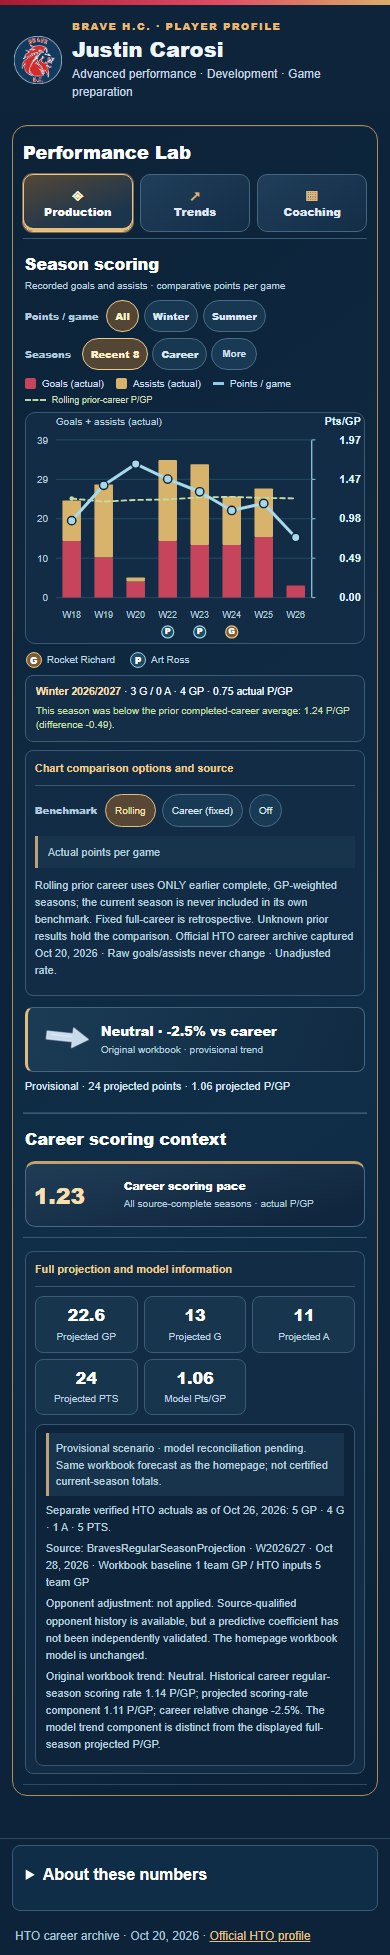
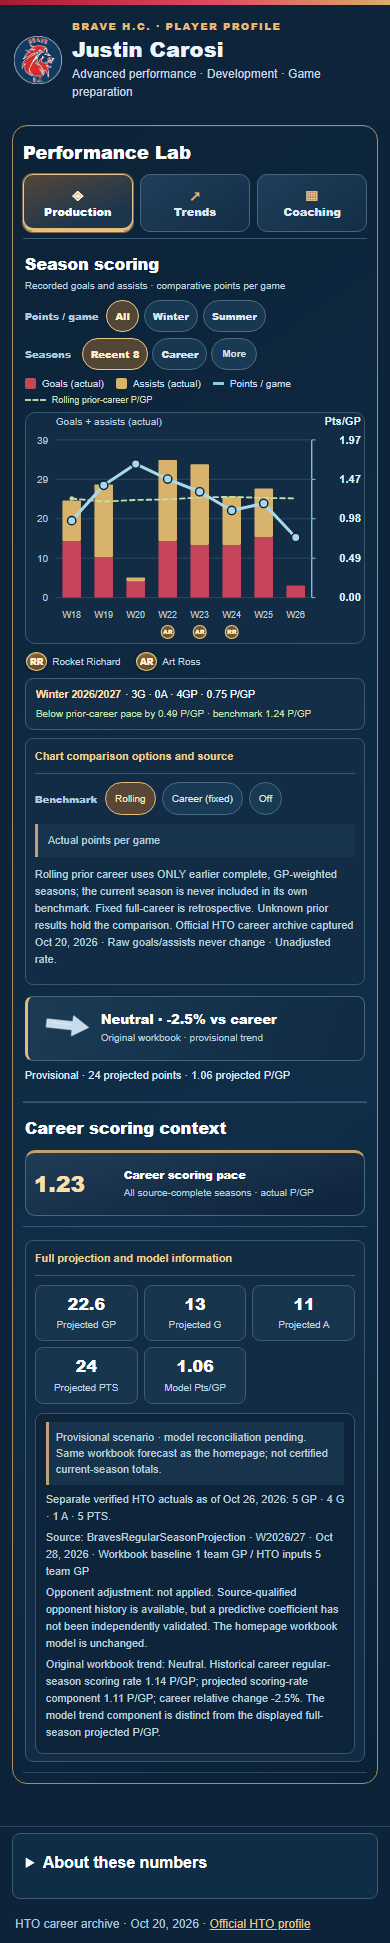
Polish gold RR AR season medals and Neutral Rookie Year Bio presentation

diff --git a/widgets/player-bio-premium.js b/widgets/player-bio-premium.js
@@ -156,19 +156,17 @@ function titleMarks(season){
 function renderAwardKey(rows){
   const host=$('bioAwardKey');
   host.replaceChildren();
-  const types=rows.map(r=>titleMarks(r.Season)).filter(items=>items.length);
-  const includes={goalTitle:types.some(x=>x.length===1&&x[0].type==='goalTitle'),
-    pointsTitle:types.some(x=>x.length===1&&x[0].type==='pointsTitle'),
-    doubleTitle:types.some(x=>x.length===2)};
-  host.hidden=!Object.values(includes).some(Boolean);
-  if(host.hidden)return;
-  for(const [type,text] of [['goalTitle','Rocket Richard'],['pointsTitle','Art Ross'],['doubleTitle','Both titles']]){
-    if(!includes[type])continue;
-    const label=build('span',undefined,'bio-award-key-item');
-    const symbol=type==='goalTitle'?'G':type==='pointsTitle'?'P':'★';
-    label.append(build('span',symbol,type==='goalTitle'?'bio-award-g':type==='pointsTitle'?'bio-award-p':'bio-award-both'),
-      build('span',text));
-    host.append(label);
+  const found=new Set(rows.flatMap(row=>titleMarks(row.Season).map(item=>item.type)));
+  host.hidden=found.size===0;
+  for(const [type,abbreviation,title] of [
+     ['goalTitle','RR','Rocket Richard'],
+     ['pointsTitle','AR','Art Ross']
+  ]){
+    if(!found.has(type))continue;
+    const legend=build('span',undefined,'bio-award-key-item');
+    legend.append(build('span',abbreviation,'bio-award-gold'),
+      build('span',title));
+    host.append(legend);
   }
 }
 function describeSeason(row,rate,reference){
@@ -177,31 +175,29 @@ function describeSeason(row,rate,reference){
   const awards=titleMarks(row.Season);
   const summary=build('div',undefined,'bio-season-summary');
   summary.append(build('strong',row.Season||'Historical season'));
-  const facts=build('span',
-    ' · '+(num(row.G)?fmt(row.G):'—')+' G / '+(num(row.A)?fmt(row.A):'—')+
-    ' A · '+(num(row.GP)?fmt(row.GP):'—')+' GP'+
-    (num(rate)?' · '+rate.toFixed(2)+' '+(state.rate==='actual'?'actual':state.rate+'-eq')+' P/GP':' · rate unavailable'));
-  summary.append(facts);host.append(summary);
+  summary.append(build('span',' · '+(num(row.G)?fmt(row.G):'—')+'G · '+
+      (num(row.A)?fmt(row.A):'—')+'A · '+(num(row.GP)?fmt(row.GP):'—')+
+      'GP · '+(num(rate)?rate.toFixed(2)+' P/GP':'P/GP unavailable')));
+  host.append(summary);
   if(num(reference)&&num(rate)){
-    const difference=rate-reference;
-    const assessment=Math.abs(difference)<1e-9?'matched':
-      difference>0?'above':'below';
-    const comparison=state.baseline==='fixed'?'full-career retrospective average':
-      'prior completed-career average';
-    host.append(build('span','This season was '+assessment+' the '+comparison+
-      ': '+reference.toFixed(2)+' P/GP (difference '+(difference>0?'+':'')+
-      difference.toFixed(2)+').','bio-chart-benchmark-detail'));
+    const diff=rate-reference;
+    const comparable=state.baseline==='fixed'?'full-career pace':'prior-career pace';
+    const verb=Math.abs(diff)<.005?'At':diff>0?'Above':'Below';
+    const result=Math.abs(diff)<.005?'':(' by '+Math.abs(diff).toFixed(2)+' P/GP');
+    host.append(build('span',verb+' '+comparable+result+
+      ' · benchmark '+reference.toFixed(2)+' P/GP','bio-chart-benchmark-detail'));
   }
   if(awards.length){
     const badges=build('div',undefined,'bio-season-awards');
-    for(const mark of awards){
-      const badge=build('span',undefined,'bio-season-award '+(mark.type==='goalTitle'?'goal':'points'));
-      badge.append(build('span',mark.type==='goalTitle'?'G':'P','bio-award-letter'),build('span',mark.label));
+    for(const award of awards){
+      const badge=build('span',undefined,'bio-season-award bio-season-award-gold');
+      badge.append(build('span',award.type==='goalTitle'?'RR':'AR','bio-award-letter'),
+        build('span',award.label));
       badges.append(badge);
     }
     host.append(badges);
     host.append(build('span',
-      'Award titles are historical HTO honors; chart totals can include playoffs or a different statistical scope.',
+      'Award titles are published HTO honors; chart totals may include a different game-type scope.',
       'bio-award-caveat'));
   }
 }
@@ -293,20 +289,20 @@ function renderChart(){
       x:xc,y:baseline+22,fill:'#b5c9da','font-size':compact?10:Math.max(9,rows.length>18?9:11),
       'text-anchor':'middle'},shortName(row.Season)));
     const awards=titleMarks(row.Season);
-    const double=awards.length===2;
-    const badgeTypes=double?[{type:'doubleTitle',label:'Rocket Richard AND Art Ross scoring titles'}]:awards;
-    badgeTypes.forEach(award=>{
-      const crowded=rows.length>12,yy=baseline+37;
-      const group=addInteractive(svg('g',{'data-award-type':award.type,'data-award-season':row.Season}),i,rate);
+    awards.forEach((award,j)=>{
+      // Show source-approved Rocket Richard/Art Ross as separate gold RR/AR medals.
+      // In dense Career views badges shrink and retain full accessible titles.
+      const crowded=rows.length>12,yy=baseline+37,
+        dx=awards.length===2?(j===0?(crowded?-4.5:-7):(crowded?4.5:7)):0;
+      const group=addInteractive(svg('g',{'data-award-type':award.type,
+        'data-award-season':row.Season}),i,rate);
       group.setAttribute('aria-label',row.Season+': '+award.label+'. Open season details');
       group.append(svg('title',{},award.label+' · '+row.Season));
-      group.append(svg('circle',{cx:xc,cy:yy,r:crowded?5:6.5,
-        fill:award.type==='goalTitle'?'#805c32':award.type==='pointsTitle'?'#204b64':'#654e61',
-        stroke:award.type==='goalTitle'?'#e9c58b':award.type==='pointsTitle'?'#98d4e6':'#e2c3ec',
-        'stroke-width':1.3}));
-      group.append(svg('text',{x:xc,y:yy+2.7,'text-anchor':'middle',fill:'#fff',
-        'font-size':crowded?8:9,'font-weight':900},
-        award.type==='goalTitle'?'G':award.type==='pointsTitle'?'P':'★'));
+      group.append(svg('circle',{cx:xc+dx,cy:yy,r:crowded?5.0:7.0,
+        fill:'#75532a',stroke:'#efcd88','stroke-width':1.15}));
+      group.append(svg('text',{x:xc+dx,y:yy+2.6,'text-anchor':'middle',
+        fill:'#fff2cb','font-size':crowded?5.5:6.7,'font-weight':900},
+        award.type==='goalTitle'?'RR':'AR'));
       picture.append(group);
     });
   });
@@ -407,13 +403,24 @@ function paintProjectionTrend(row,projection){
   }else{
     host.dataset.trendState=result.status;
     const label=build('div',undefined,'bio-trend-copy');
-    label.append(build('strong',result.status==='ROOKIE'?'ROOKIE':'Career trend unavailable',
-      'bio-trend-main'));
-    label.append(build('span',result.status==='ROOKIE'?'No established career comparison':'The workbook trend is not source verified',
-      'bio-trend-minor'));
+    if(result.status==='ROOKIE'){
+      // Founder-approved rookie state: white horizontal neutral symbol, not a
+      // calculated trend. No angle, z-score, % change or invented career baseline.
+      const graphic=svg('svg',{viewBox:'0 0 100 64',class:'bio-trend-direction-arrow',
+        role:'img','aria-label':'Neutral display marker for rookie year; no established career comparison'});
+      const shape='M11 25H60V14L89 32L60 50V39H11Z';
+      graphic.append(svg('path',{d:shape,fill:'#f7fbff',stroke:'#91a7b8',
+        'stroke-width':1.5,'stroke-linejoin':'round','data-rookie-neutral':'true'}));
+      host.append(graphic);
+      label.append(build('strong','Neutral · Rookie Year','bio-trend-main'),
+        build('span','No established career comparison','bio-trend-minor'));
+      detail.textContent='Neutral rookie display state only. No model career baseline or statistical comparison is available.';
+    }else{
+      label.append(build('strong','Career trend unavailable','bio-trend-main'),
+        build('span','The workbook trend is not source verified','bio-trend-minor'));
+      detail.textContent='No verified workbook career trend. No arrow or comparison has been inferred.';
+    }
     host.append(label);
-    detail.textContent=result.status==='ROOKIE'?'Rookie · no established career average; no trend arrow is assigned.':
-      'No verified workbook trend. No arrow or comparison has been inferred.';
   }
 }
 

diff --git a/widgets/player-bio-collection.css b/widgets/player-bio-collection.css
@@ -289,3 +289,17 @@ body{font-family:Arial,"Helvetica Neue",sans-serif;color:#eef4fb}
 #bioAdvancedGrid.one-stat .bio-insight-description{align-self:start}
 @media(max-width:350px){#bioAdvancedGrid.one-stat .bio-insight-tile{
   grid-template-columns:minmax(68px,auto) minmax(0,1fr);column-gap:8px}}
+
+/* V2.6 user-approved award and rookie presentation, within the existing Milestone shell. */
+.bio-award-gold{display:inline-grid;place-items:center;min-width:19px;height:19px;
+ border:1.4px solid #f2d393;border-radius:50%;padding:0 3px;
+ background:linear-gradient(155deg,#8e6733,#62431d);color:#fff3d1;
+ font-size:9px;line-height:1;font-weight:900;letter-spacing:-.2px;
+ box-shadow:inset 0 1px 1px #fff2b440,0 1px 3px #030f1c88}
+.bio-season-award-gold{border-color:#c99e5e!important;background:#523d24!important;color:#fce6bc!important}
+.bio-season-award-gold .bio-award-letter{color:#fff3c4;font-weight:900}
+.bio-season-summary{display:flex;gap:3px 4px;flex-wrap:wrap;align-items:baseline}
+.bio-season-summary strong{white-space:nowrap}
+.bio-chart-benchmark-detail{margin-top:4px;line-height:1.45}
+.bio-trend-summary[data-trend-state="ROOKIE"]{border-left-color:#cad6e0}
+.bio-trend-summary[data-trend-state="ROOKIE"] .bio-trend-main{color:#fff}

diff --git a/AGENTS.md b/AGENTS.md
@@ -77,3 +77,14 @@ Formatting invariants: Pts/GP displayed as exactly 2 decimals throughout Bio, pr
 The career-performance ARROW uses the original five workbook category thresholds and its model trend number. A zero trend points horizontally, negative values point downward and positive values upward. Absolute standard deviations from zero determine continuous arrow angle and color intensity; the source workbook categorization is never replaced. For first-season/no established-baseline participants show ROOKIE, never NEW, and never invent a numerical comparison.
 
 Media policy: One source/video asset can be referenced from public Highlights for an approved highlight or achievement, and from private Coaching only with coach permission and annotated tactical context. Existing Game363 video observations are READ_ONLY_SHADOW_NO_PRODUCTION, not public assets. See docs/261028_HockeyOS_Video_Highlights_Coaching_Placement.md. No video upload or public coaching clip publication implied.
+## Bio V2.6 standing visual rules — supersedes earlier arrow/award icon descriptions
+
+The founder explicitly selected the previous **Milestone Trophy Room** visual language (dark navy and controlled gold), not a generic new mobile UI mockup. The reduced Production block structure stays: season chart, two-line selected-season summary, compact career projection arrow, contextual career scoring pace, optional full projection. Never show an out-of-context Peak Season tile or invented Last 3/5/10 GP stats when game log appearances are incomplete.
+
+**Award markers are two separately earned, gold icons: RR = Rocket Richard, AR = Art Ross.** Both medals appear in the season chart and selected-season detail if both titles were recorded. Do not substitute a blue P marker, a generic G marker or a star in place of either actual title. They are authoritative historical winner badges, not inferred from scored goals or points, and they never change the chart's actual G/A bars or record totals. Dense season views may reduce symbol size but must preserve accessible RR/AR title labels.
+
+**First-year model players:** show an authentic white **horizontal** visual arrow at zero and exact public text **“Neutral · Rookie Year”** with the explanatory subtitle “No established career comparison”. The internal workbook status remains ROOKIE and has **no numeric z-score, % comparison, angle calculation or fabricated career baseline**. All veteran directional arrows continue to use the source workbook's original five category thresholds and σ-scaled, zero-centered continuous angle/color calculation.
+
+Keep the selected season comparison at no more than two concise public-facing lines (season, actual G/A/GP/P/GP; then above/below prior career by the derived Pts/GP difference and its comparison benchmark). The full scope explanation remains in the already accessible chart-method/source disclosure. Pts/GP always displays to two decimals, projected GP to one. Source provenance, incomplete data holds, goalie forecast hold, and separate workstreams are unchanged.
+
+Only published HTO source data may be used; the V2.6 page remains in draft PR #158 until its separate approval. A separately hosted review-only preview may be exposed at its own URL without changing the official production player-bio.html or HTO editor.

diff --git a/docs/261028_Player_Bio_Milestone_Parity_Analytics_V2.md b/docs/261028_Player_Bio_Milestone_Parity_Analytics_V2.md
@@ -141,3 +141,13 @@ The isolated 'Peak season' score was rejected because the label did not explain 
 **Recent Production future gate:** the founder's desired Last 3 GP / Last 5 GP / Last 10 GP normalized scoring tiles must be calculated from a complete individual player-game participation and scoring record. The current public svhl-player-game-index.json reports SEASON_SCOPED_PARTIAL_PLAYER_GAME_EVENT_EVIDENCE, so currently observed goals/assists do not establish a complete denominator of every scoreless and scoring game played. Do not infer the last ten appearances or treat missing events as zero. Do not populate recent-form cards from provisional workbook projections or partial league events. Reconcile 1:1 with HTO player ID, official game, actual appearance, game type, completed game/season length and scored events; validate 3/5/10 windows against the recorded game log before release.
 
 **Acceptance:** no default Peak season or Highest-season tile in Production/Trends, contextual career basis changes together with chart controls, all rates displayed to two decimals, original earned G/A bars and award milestones unchanged, and separate source-based game-log gates for any future recent-production release. The production V1 remains live; this draft PR #158 is not merged.
+
+## V2.6 — final public readability corrections: RR/AR and Rookie Year
+
+The founder selected the prior Milestone-like premium styling over the generic alternate mockup and requested two concrete data-card improvements. This section overrides earlier G/P/star badge mockups and no-arrow rookie placeholders:
+
+- Gold RR and AR **both** appear in a season with both Rocket Richard and Art Ross historical titles; each marker has a distinct tooltip and accessibly named award title. In all other cases show only the truly earned title. Do not infer titles from the chart.
+- A ROOKIE model row shows a **white, perfectly horizontal** neutral display arrow and **“Neutral · Rookie Year”**. It is visually neutral because no established career comparison exists, not a claim that an actual rookie was statistically neutral. No numeric z-score or percentage is produced for rookies.
+- The selected season summary is reduced to season + actual goals/assists/GP/2-decimal Pts/GP on the first line, then a concise above/below comparison against the exact selected prior-career or full-career benchmark on the second. Methodology is still available behind the chart source disclosure.
+- Retain the genuine Milestone visual system and no stand-alone context-free peak statistic. Only show recent last-3/5/10 GP when the individual game log is complete and verified.
+- The approved V2 source remains draft PR #158. A separate public **review-only** preview is safe if placed at its own path and tested against all 109 identities; official HTO Bio production files and CMS remain unchanged until approval.
